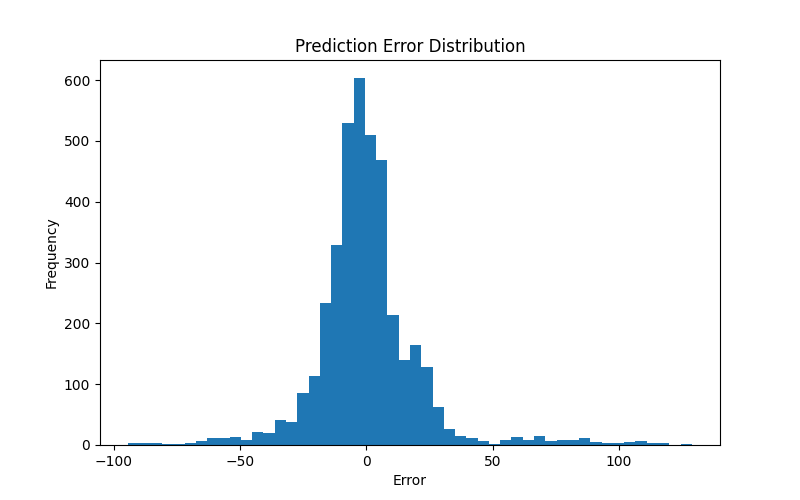
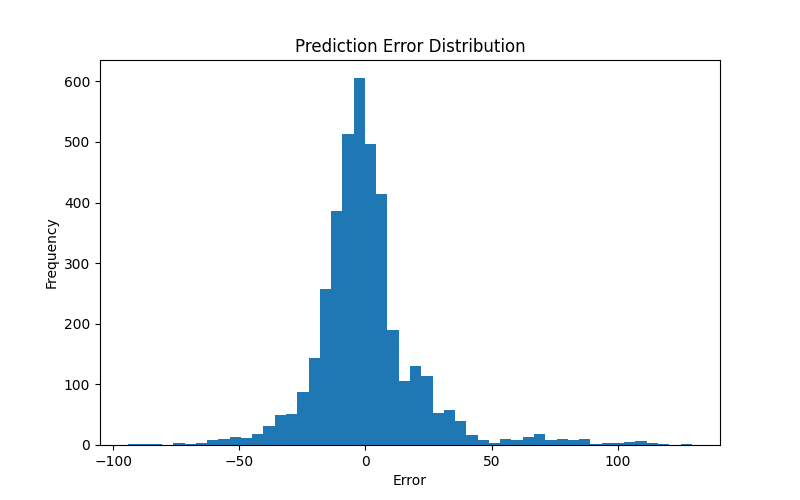
edit evaluation.py file

diff --git a/src/evaluation.py b/src/evaluation.py
@@ -1,9 +1,15 @@
 import numpy as np
 import pandas as pd
 import os
+import matplotlib.pyplot as plt
 
 from tensorflow.keras.models import load_model
-from sklearn.metrics import mean_absolute_error, mean_squared_error, r2_score
+from sklearn.metrics import (
+    mean_absolute_error,
+    mean_squared_error,
+    r2_score,
+    explained_variance_score
+)
 
 
 class ModelEvaluation:
@@ -17,17 +23,14 @@ class ModelEvaluation:
         os.makedirs("outputs/plots", exist_ok=True)
 
     # =========================
-    # LOAD MODEL (FIXED)
+    # LOAD MODEL
     # =========================
-
     def load_model(self):
 
         print("\nLoading trained model...")
 
-        # 🔥 FIX: compile=False avoids keras deserialization error
         model = load_model(self.model_path, compile=False)
 
-        # Re-compile manually for safe evaluation
         model.compile(
             optimizer="adam",
             loss="mse",
@@ -39,7 +42,6 @@ class ModelEvaluation:
     # =========================
     # LOAD DATA
     # =========================
-
     def load_data(self):
 
         print("\nLoading test data...")
@@ -54,7 +56,6 @@ class ModelEvaluation:
     # =========================
     # PREDICT
     # =========================
-
     def predict(self, model, X_test):
 
         print("\nGenerating predictions...")
@@ -66,19 +67,28 @@ class ModelEvaluation:
     # =========================
     # EVALUATION METRICS
     # =========================
-
     def evaluate(self, y_test, y_pred):
 
         print("\nEvaluating model...")
 
         mae = mean_absolute_error(y_test, y_pred)
-        rmse = np.sqrt(mean_squared_error(y_test, y_pred))
+        mse = mean_squared_error(y_test, y_pred)
+        rmse = np.sqrt(mse)
         r2 = r2_score(y_test, y_pred)
+
+        # MAPE
+        mape = np.mean(np.abs((y_test - y_pred) / y_test)) * 100
+
+        # Explained Variance
+        evs = explained_variance_score(y_test, y_pred)
 
         results = pd.DataFrame([{
             "MAE": mae,
+            "MSE": mse,
             "RMSE": rmse,
-            "R2_Score": r2
+            "MAPE (%)": mape,
+            "R2_Score": r2,
+            "Explained_Variance": evs
         }])
 
         print("\nResults:")
@@ -89,19 +99,68 @@ class ModelEvaluation:
     # =========================
     # SAVE RESULTS
     # =========================
-
     def save_results(self, results):
 
         output_path = "outputs/metrics/evaluation_results.csv"
-
         results.to_csv(output_path, index=False)
 
         print(f"\nSaved results to: {output_path}")
 
     # =========================
+    # RESIDUAL ANALYSIS
+    # =========================
+    def residual_analysis(self, y_test, y_pred):
+
+        residuals = y_test - y_pred
+
+        plt.figure()
+        plt.hist(residuals, bins=50)
+        plt.title("Residual Distribution")
+        plt.xlabel("Error")
+        plt.ylabel("Frequency")
+
+        plt.savefig("outputs/plots/residual_distribution.png")
+        plt.close()
+
+        print("Saved residual plot.")
+
+    # =========================
+    # ACTUAL VS PREDICTED
+    # =========================
+    def plot_predictions(self, y_test, y_pred):
+
+        plt.figure()
+        plt.plot(y_test[:200], label="Actual")
+        plt.plot(y_pred[:200], label="Predicted")
+        plt.title("Actual vs Predicted Energy Consumption")
+        plt.legend()
+
+        plt.savefig("outputs/plots/actual_vs_predicted.png")
+        plt.close()
+
+        print("Saved prediction plot.")
+
+    # =========================
+    # ERROR OVER TIME
+    # =========================
+    def error_over_time(self, y_test, y_pred):
+
+        errors = np.abs(y_test - y_pred)
+
+        plt.figure()
+        plt.plot(errors[:500])
+        plt.title("Absolute Error Over Time")
+        plt.xlabel("Time Step")
+        plt.ylabel("Error")
+
+        plt.savefig("outputs/plots/error_over_time.png")
+        plt.close()
+
+        print("Saved error trend plot.")
+
+    # =========================
     # FULL PIPELINE
     # =========================
-
     def run(self):
 
         model = self.load_model()
@@ -114,13 +173,16 @@ class ModelEvaluation:
 
         self.save_results(results)
 
+        self.residual_analysis(y_test, y_pred)
+        self.plot_predictions(y_test, y_pred)
+        self.error_over_time(y_test, y_pred)
+
         print("\nEvaluation Completed Successfully!")
 
 
 # =========================
-# RUN FILE
+# RUN SCRIPT
 # =========================
-
 if __name__ == "__main__":
 
     evaluator = ModelEvaluation(